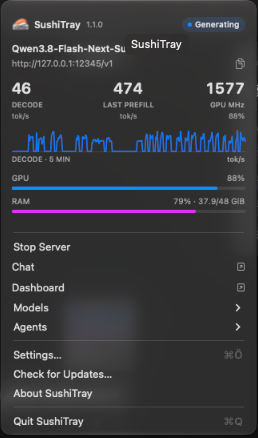
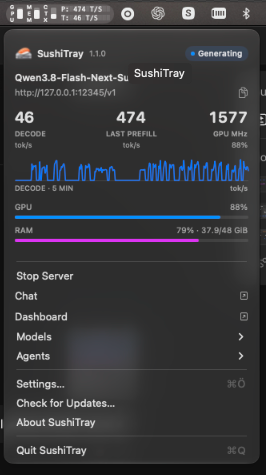
docs: add cropped live tray screenshot to README

Changed region(s): [[0.0, 0.0, 1.0, 1.0], [0.9612, 0.5046, 1.0, 0.5639], [0.8372, 0.8014, 0.9302, 0.8311]]

diff --git a/README.md b/README.md
@@ -9,7 +9,7 @@ Start and stop `sushi serve` from the tray, watch live prefill/decode tok/s, bro
 </p>
 
 <p align="center">
-  <img src="assets/sushitray-menu.png" alt="SushiTray dropdown showing live decode and prefill speeds, GPU and RAM usage, and server controls" width="258" />
+  <img src="assets/sushitray-menu.png" alt="SushiTray menu bar indicators and dropdown showing live decode and prefill speeds, GPU and RAM usage, and server controls" width="266" />
 </p>
 
 ## Install
